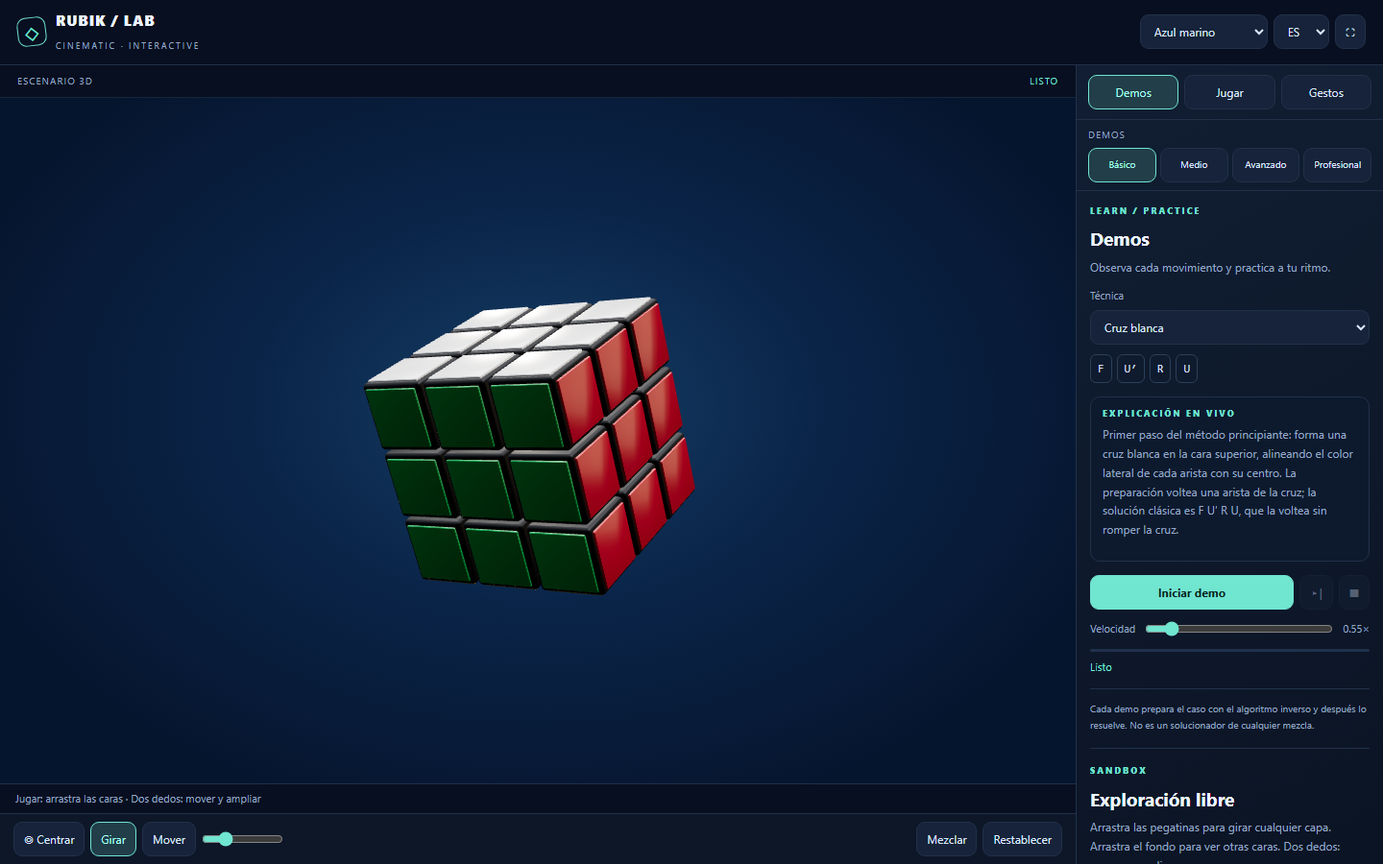
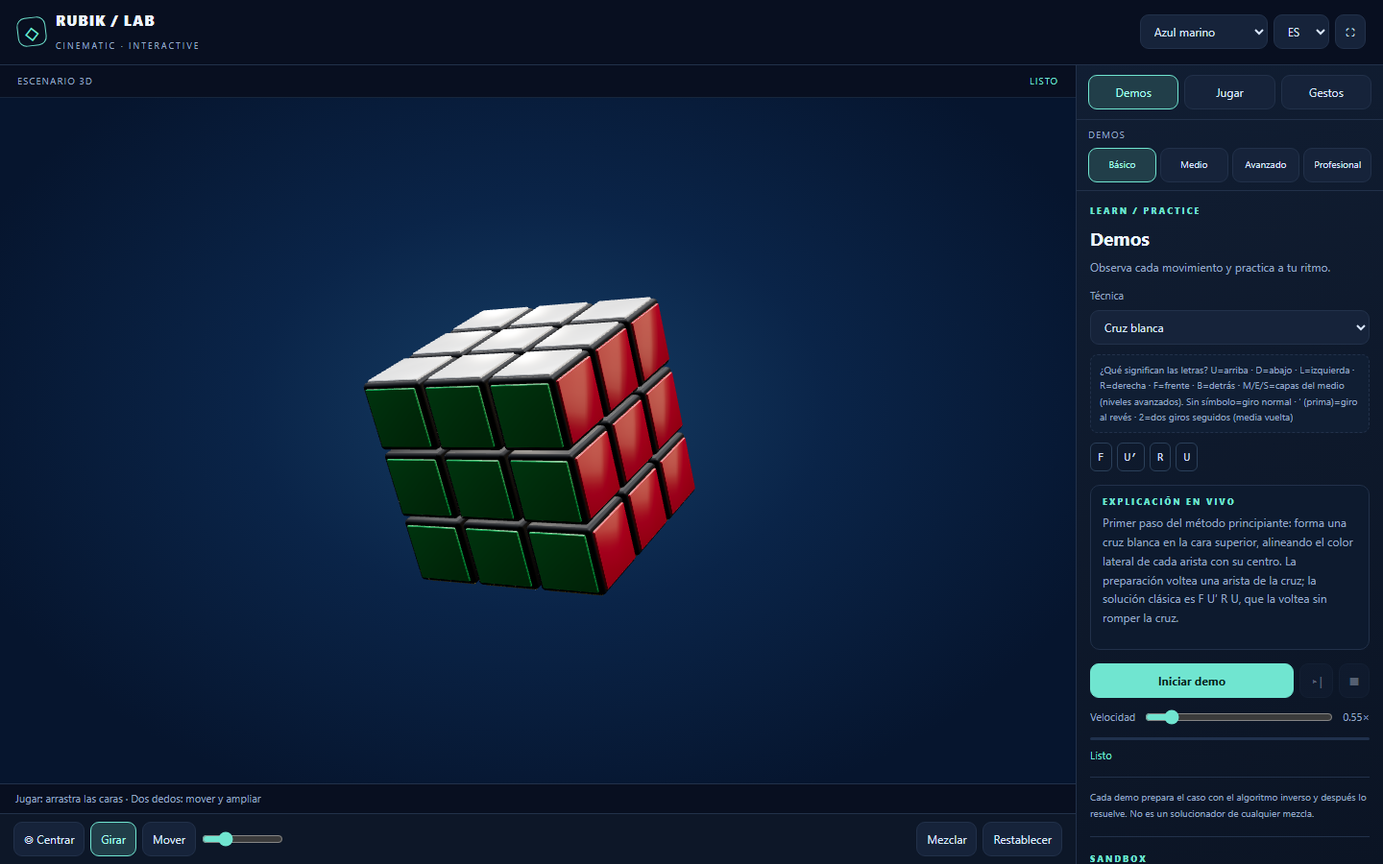
Explain cube notation before anything else, in plain language
README: add a beginner-proof glossary of face letters (U/D/L/R/F/B)
and symbols (', 2) right at the top, before any algorithm is shown,
with a fully worked example read out step by step. Also clarify
PLL/OLL and fix the "God's Number" wording.

App: add the same glossary as an always-visible legend above the
algorithm badges in the Demos panel (in all three languages), so
nobody encounters a bare letter without an explanation first.

Changed region(s): [[0.7812, 0.4044, 1.0, 1.0]]

diff --git a/Rubik-Cinematic-Lab.html b/Rubik-Cinematic-Lab.html
@@ -19,6 +19,7 @@
 .tw-cursor{display:inline-block;margin-left:1px;color:var(--accent);animation:tw-blink 1s steps(1) infinite}
 @keyframes tw-blink{0%,49%{opacity:1}50%,100%{opacity:0}}
 @media(max-width:760px){.explain-box{padding:8px 10px;margin:7px 0}.explain-text{font-size:11.5px;max-height:84px;overflow-y:auto}}
+.legend{margin:0 0 10px!important;padding:7px 9px;border:1px dashed var(--line);border-radius:8px;background:#101e33;color:#aebedc;font-size:10px!important;line-height:1.5}
 </style></head>
 <body>
   <div id="root"></div>
@@ -4015,9 +4016,9 @@ function SafeFrame({controller:c}){
  });return null;
 }
 function CP({controller:l,background:N}){return X1(ZP,{shadows:!0,dpr:[1,2],camera:{position:[0,0,11],fov:35},gl:{antialias:!0,alpha:!0},style:{touchAction:"none"},children:[U0(Tn,{}),N==="nebula"&&U0("fog",{attach:"fog",args:["#150a26",15,40]}),U0("ambientLight",{intensity:0.22}),U0("directionalLight",{position:[6,10,4],intensity:1.5,castShadow:!0,"shadow-mapSize-width":2048,"shadow-mapSize-height":2048,"shadow-camera-left":-7,"shadow-camera-right":7,"shadow-camera-top":7,"shadow-camera-bottom":-7,"shadow-camera-near":2,"shadow-camera-far":30,"shadow-bias":-0.00015,"shadow-normalBias":0.025}),U0("directionalLight",{position:[-7,3,-2],intensity:0.45,color:"#dfe8ff"}),U0("directionalLight",{position:[-1,4,-9],intensity:0.7,color:"#fff1dd"}),X1(yz,{resolution:256,frames:1,children:[U0("color",{attach:"background",args:["#0b0b10"]}),U0(fW,{intensity:2.2,position:[0,5,0],"rotation-x":Math.PI/2,scale:[9,9,1],color:"#ffffff"}),U0(fW,{intensity:0.9,position:[-5,1.5,-1],"rotation-y":Math.PI/2,scale:[7,2.5,1],color:"#cfe4ff"}),U0(fW,{intensity:0.9,position:[5,1,0.5],"rotation-y":-Math.PI/2,scale:[7,2.5,1],color:"#ffe7c4"}),U0(fW,{intensity:0.5,position:[0,2,-6],scale:[10,3,1],color:"#ffffff"})]}),(N==="stars"||N==="nebula")&&U0(_n,{tinted:N==="nebula"}),N==="nebula"&&U0(vn,{}),U0(hn,{controller:l}),U0(An,{controller:l}),U0(SafeFrame,{controller:l})]})}var q6=E8(b8(),1);var SP=[{id:"es",label:"ES"},{id:"en",label:"EN"},{id:"ru",label:"RU"}],nn={title:"Rubik 3D Lab Pro",tagline:"Photorealistic 3D cube laboratory",background:"Background",bgStudio:"Studio",bgStars:"Starfield",bgNebula:"Nebula",scramble:"Scramble",reset:"Reset",deckTitle:"PRO Control Deck",orbitStick:"Orbit Stick",orbitHint:"Drag the pad to rotate the view · release for inertia",resetView:"Reset view",layerSelect:"Layer Select",turnWheel:"Turn Wheel",wheelHint:"Drag in a circle to turn the layer 1:1 · release to snap",sensitivity:"Sensitivity",layerLabel:"Layer",wholeCube:"whole cube",demos:"Beginner Method",demosSub:"Step-by-step techniques with auto-played algorithms",techniques:"Techniques",close:"Close",play:"Play",pause:"Pause",step:"Step",stop:"Stop",speed:"Speed",algorithm:"Algorithm",statusReady:"Ready — pick a technique and press Play",statusPlaying:"Playing algorithm…",statusPaused:"Paused",dragFaceHint:"Drag a cube face to turn it",viewHint:"drag the background to orbit",moves:"moves"},jn={title:"Rubik 3D Lab Pro",tagline:"Laboratorio fotorrealista del cubo 3D",background:"Fondo",bgStudio:"Estudio",bgStars:"Estrellas",bgNebula:"Nebulosa",scramble:"Mezclar",reset:"Restablecer",deckTitle:"Consola de control PRO",orbitStick:"Palanca orbital",orbitHint:"Arrastra el pad para rotar la vista · suelta para inercia",resetView:"Centrar vista",layerSelect:"Selección de capa",turnWheel:"Rueda de giro",wheelHint:"Gira en círculo para rotar la capa 1:1 · suelta para ajustar",sensitivity:"Sensibilidad",layerLabel:"Capa",wholeCube:"cubo completo",demos:"Método principiante",demosSub:"Técnicas paso a paso con algoritmos automáticos",techniques:"Técnicas",close:"Cerrar",play:"Reproducir",pause:"Pausa",step:"Paso",stop:"Detener",speed:"Velocidad",algorithm:"Algoritmo",statusReady:"Listo — elige una técnica y pulsa Reproducir",statusPlaying:"Reproduciendo algoritmo…",statusPaused:"En pausa",dragFaceHint:"Arrastra una cara del cubo para girarla",viewHint:"arrastra el fondo para orbitar",moves:"movs."},xn={title:"Rubik 3D Lab Pro",tagline:"Фотореалистичная 3D-лаборатория кубика",background:"Фон",bgStudio:"Студия",bgStars:"Звёзды",bgNebula:"Туманность",scramble:"Перемешать",reset:"Сбросить",deckTitle:"ПРО-пульт управления",orbitStick:"Орбита-стик",orbitHint:"Тяните пад, чтобы вращать вид · отпустите для инерции",resetView:"Сбросить вид",layerSelect:"Выбор слоя",turnWheel:"Колесо поворота",wheelHint:"Вращайте по кругу для поворота слоя 1:1 · отпустите для доводки",sensitivity:"Чувствительность",layerLabel:"Слой",wholeCube:"весь куб",demos:"Метод новичка",demosSub:"Пошаговые техники с автопоказом алгоритмов",techniques:"Техники",close:"Закрыть",play:"Старт",pause:"Пауза",step:"Шаг",stop:"Стоп",speed:"Скорость",algorithm:"Алгоритм",statusReady:"Готов — выберите технику и нажмите «Старт»",statusPlaying:"Выполнение алгоритма…",statusPaused:"Пауза",dragFaceHint:"Потяните грань кубика, чтобы повернуть её",viewHint:"тяните фон для орбиты",moves:"ходов"},yW={en:nn,es:jn,ru:xn},gn=[{name:"White Cross",desc:"First step of the beginner method: build a white cross on the top face, matching each edge side color with its center. The setup flips one cross edge in place — the classic fix is F U′ R U, which flips the edge without breaking the cross."},{name:"White Corners",desc:"Seat the four white corners above their slots and twist each into place with R′ D′ R D, repeated until the white sticker faces up. The demo twists one corner out and restores it."},{name:"Second Layer",desc:"Insert the four middle-layer edges without disturbing the white face. The right-hand insert U R U′ R′ U′ F′ U F carries a top-layer edge into its slot."},{name:"Yellow Cross",desc:"Orient the four yellow edges to form a cross on the last layer. From the bar or L case, F R U R′ U′ F′ flips the remaining edges into place."},{name:"PLL · Permute Last Layer",desc:"Permute the last-layer pieces so every color matches its face. The T-permutation R U R′ U′ R′ F R2 U′ R′ U′ R U R′ F′ swaps two corners and two edges — a workhorse of full PLL."},{name:"OLL · Orient Last Layer",desc:"Orient every last-layer sticker so yellow faces up. Sune — R U R′ U R U2 R′ — is the most famous OLL: it cycles three corners while keeping the cross intact."}],pn=[{name:"Cruz blanca",desc:"Primer paso del método principiante: forma una cruz blanca en la cara superior, alineando el color lateral de cada arista con su centro. La preparación voltea una arista de la cruz; la solución clásica es F U′ R U, que la voltea sin romper la cruz."},{name:"Esquinas blancas",desc:"Coloca las cuatro esquinas blancas sobre sus huecos y gira cada una con R′ D′ R D, repitiendo hasta que la pegatina blanca mire hacia arriba. La demo gira una esquina y la restaura."},{name:"Segunda capa",desc:"Inserta las cuatro aristas de la capa media sin deshacer la cara blanca. La inserción a la derecha U R U′ R′ U′ F′ U F lleva una arista de la capa superior a su hueco."},{name:"Cruz amarilla",desc:"Orienta las cuatro aristas amarillas para formar una cruz en la última capa. Desde el caso de barra o L, F R U R′ U′ F′ coloca las aristas restantes."},{name:"PLL · Permutar última capa",desc:"Permuta las piezas de la última capa para que cada color coincida con su cara. La permutación T R U R′ U′ R′ F R2 U′ R′ U′ R U R′ F′ intercambia dos esquinas y dos aristas."},{name:"OLL · Orientar última capa",desc:"Orienta todas las pegatinas de la última capa para que el amarillo mire hacia arriba. Sune — R U R′ U R U2 R′ — es el OLL más famoso: rota tres esquinas manteniendo la cruz."}],mn=[{name:"Белый крест",desc:"Первый шаг метода новичка: соберите белый крест на верхней грани, совместив боковой цвет каждого ребра с его центром. Подготовка переворачивает одно ребро креста на месте — классическое исправление F U′ R U переворачивает ребро, не разрушая крест."},{name:"Белые углы",desc:"Поставьте четыре белых угла над их гнёздами и доверните каждый движением R′ D′ R D, повторяя, пока белый стикер не окажется сверху. Демо выкручивает один угол и возвращает его на место."},{name:"Второй слой",desc:"Вставьте четыре ребра среднего слоя, не разрушая белую грань. Правая вставка U R U′ R′ U′ F′ U F переносит ребро из верхнего слоя в его гнездо."},{name:"Жёлтый крест",desc:"Ориентируйте четыре жёлтых ребра, чтобы получить крест на последнем слое. Из случаев «палка» или «уголок» алгоритм F R U R′ U′ F′ ставит оставшиеся рёбра на место."},{name:"PLL · Перестановка последнего слоя",desc:"Переставьте элементы последнего слоя так, чтобы цвета совпали с гранями. T-перестановка R U R′ U′ R′ F R2 U′ R′ U′ R U R′ F′ меняет местами два угла и два ребра."},{name:"OLL · Ориентация последнего слоя",desc:"Ориентируйте все стикеры последнего слоя жёлтым вверх. Сьюн — R U R′ U R U2 R′ — самый известный OLL: он циклит три угла, сохраняя крест."}],PP={en:gn,es:pn,ru:mn};var bn=[["U","D","L"],["R","F","B"],["M","E","S"],["X","Y","Z"]];function hz({icon:l,title:N,children:Q}){return X1("div",{className:"flex flex-col items-center gap-3 rounded-2xl border border-white/10 bg-white/[0.04] px-4 py-4",children:[X1("div",{className:"flex items-center gap-2 text-[12px] font-bold uppercase tracking-[0.16em] text-white/70",children:[U0("span",{className:"text-amber-300",children:l}),U0("span",{children:N})]}),Q]})}function dn({controller:l,t:N}){let Q=q6.useRef(null),W=q6.useRef(null),[J,H]=q6.useState({x:0,y:0}),U=(K,Y)=>{let E=Q.current;if(!E)return;let X=E.getBoundingClientRect(),$=X.width/2-26,G=K-(X.left+X.width/2),u=Y-(X.top+X.height/2),z=Math.hypot(G,u);if(z>$&&z>0)G=G/z*$,u=u/z*$;H({x:G,y:u}),l.setStick(G/$,u/$)};return X1("div",{className:"flex flex-col items-center gap-2",children:[X1("div",{ref:Q,onPointerDown:(K)=>{if(W.current!==null)return;W.current=K.pointerId,K.currentTarget.setPointerCapture(K.pointerId),U(K.clientX,K.clientY)},onPointerMove:(K)=>{if(W.current!==K.pointerId)return;U(K.clientX,K.clientY)},onPointerUp:(K)=>{if(W.current!==K.pointerId)return;W.current=null,H({x:0,y:0}),l.releaseStick()},onPointerCancel:(K)=>{if(W.current!==K.pointerId)return;W.current=null,H({x:0,y:0}),l.releaseStick()},className:"relative h-40 w-40 cursor-grab touch-none select-none rounded-full border border-white/15 bg-white/[0.04] shadow-[inset_0_2px_18px_rgba(0,0,0,0.45)] active:cursor-grabbing",children:[U0("div",{className:"absolute bottom-2 left-1/2 top-2 w-px bg-white/10"}),U0("div",{className:"absolute left-2 right-2 top-1/2 h-px bg-white/10"}),U0("div",{className:"absolute inset-3 rounded-full border border-white/10"}),U0("div",{className:"absolute left-1/2 top-1/2 h-12 w-12 rounded-full border border-amber-100/60 bg-gradient-to-br from-amber-200 to-amber-500 shadow-[0_4px_18px_rgba(251,191,36,0.45)]",style:{transform:`translate(calc(-50% + ${J.x}px), calc(-50% + ${J.y}px))`}}),U0("button",{"aria-label":N.resetView,title:N.resetView,onPointerDown:(K)=>K.stopPropagation(),onClick:()=>l.resetView(),className:"absolute left-1/2 top-1/2 z-10 flex h-9 w-9 -translate-x-1/2 -translate-y-1/2 items-center justify-center rounded-full border border-white/25 bg-black/55 text-white/85 backdrop-blur transition hover:bg-black/80 hover:text-amber-200",children:U0(eJ,{size:15})})]}),U0("p",{className:"max-w-[220px] text-center text-[11px] leading-snug text-white/45",children:N.orbitHint})]})}function cn({t:l,layer:N,setLayer:Q}){let W=N==="X"||N==="Y"||N==="Z";return X1("div",{className:"flex flex-col items-center gap-2",children:[U0("div",{className:"grid grid-cols-3 gap-1.5",children:bn.flat().map((J)=>{return U0("button",{onClick:()=>Q(J),className:`h-10 w-10 rounded-xl border text-sm font-bold transition active:scale-95 ${J===N?"border-amber-300/70 bg-amber-300/20 text-amber-100 shadow-[0_0_14px_rgba(251,191,36,0.25)]":"border-white/10 bg-white/[0.05] text-white/70 hover:bg-white/[0.12] hover:text-white"}`,children:J},J)})}),U0("p",{className:"text-[11px] text-white/45",children:W?`${N} · ${l.wholeCube}`:`${l.layerLabel} · ${N}`})]})}function on({controller:l,t:N,layer:Q}){let W=q6.useRef(null),J=q6.useRef(null),H=q6.useRef(0),U=q6.useRef(0),[K,Y]=q6.useState(0);q6.useEffect(()=>()=>cancelAnimationFrame(U.current),[]);let E=()=>{if(Y(l.wheel.accum),l.wheel.active)U.current=requestAnimationFrame(E)},X=(G,u)=>{let z=W.current?.getBoundingClientRect();if(!z)return 0;return Math.atan2(u-(z.top+z.height/2),G-(z.left+z.width/2))},$=Array.from({length:24},(G,u)=>{let z=u*15*Math.PI/180,w=u%6===0,D=w?62:68,q=76;return{i:u,x1:84+D*Math.cos(z),y1:84+D*Math.sin(z),x2:84+76*Math.cos(z),y2:84+76*Math.sin(z),major:w}});return X1("div",{className:"flex flex-col items-center gap-2",children:[X1("div",{ref:W,onPointerDown:(G)=>{if(J.current!==null||!l.wheelBegin(Q))return;J.current=G.pointerId,G.currentTarget.setPointerCapture(G.pointerId),H.current=X(G.clientX,G.clientY),Y(0),cancelAnimationFrame(U.current),U.current=requestAnimationFrame(E)},onPointerMove:(G)=>{if(J.current!==G.pointerId)return;let u=X(G.clientX,G.clientY),z=u-H.current;if(z>Math.PI)z-=Math.PI*2;else if(z<-Math.PI)z+=Math.PI*2;H.current=u,l.wheelDelta(z)},onPointerUp:(G)=>{if(J.current!==G.pointerId)return;J.current=null,l.wheelEnd()},onPointerCancel:(G)=>{if(J.current!==G.pointerId)return;J.current=null,l.wheelEnd()},className:"relative h-[168px] w-[168px] cursor-grab touch-none select-none rounded-full border border-white/15 bg-white/[0.04] shadow-[inset_0_2px_18px_rgba(0,0,0,0.45)] active:cursor-grabbing",children:[X1("svg",{viewBox:"0 0 168 168",className:"absolute inset-0 h-full w-full",children:[$.map((G)=>U0("line",{x1:G.x1,y1:G.y1,x2:G.x2,y2:G.y2,stroke:G.major?"rgba(255,255,255,0.55)":"rgba(255,255,255,0.22)",strokeWidth:G.major?2:1},G.i)),X1("g",{transform:`rotate(${K*180/Math.PI} 84 84)`,children:[U0("line",{x1:84,y1:84,x2:84,y2:34,stroke:"#fbbf24",strokeWidth:5,strokeLinecap:"round"}),U0("circle",{cx:84,cy:30,r:7,fill:"#fbbf24"})]})]}),U0("div",{className:"absolute left-1/2 top-1/2 flex h-14 w-14 -translate-x-1/2 -translate-y-1/2 items-center justify-center rounded-full border border-amber-300/40 bg-black/60 text-lg font-black text-amber-200 backdrop-blur",children:Q})]}),U0("div",{className:"flex items-center gap-1.5",children:[{label:"-90°",deg:-90},{label:"+90°",deg:90},{label:"180°",deg:180}].map((G)=>U0("button",{onClick:()=>l.turnLayer(Q,G.deg),className:"rounded-lg border border-white/10 bg-white/[0.06] px-3 py-1.5 text-xs font-bold text-white/80 transition hover:bg-white/[0.14] hover:text-white active:scale-95",children:G.label},G.label))}),U0("p",{className:"max-w-[220px] text-center text-[11px] leading-snug text-white/45",children:N.wheelHint})]})}function VP({controller:l,lang:N}){let Q=yW[N],[,W]=q6.useReducer((E)=>E+1,0),[J,H]=q6.useState("U"),[U,K]=q6.useState(1);q6.useEffect(()=>l.subscribe(W),[l]);let Y=l.isBusy();return U0("section",{className:"border-t border-white/10 bg-[#0b0e14]/90 px-3 py-3 backdrop-blur-xl sm:px-5",children:X1("div",{className:"mx-auto flex max-w-6xl flex-col gap-3",children:[X1("div",{className:"flex items-center justify-between",children:[X1("div",{className:"flex items-center gap-2",children:[U0(JH,{size:16,className:"text-amber-300"}),U0("h2",{className:"text-sm font-bold uppercase tracking-[0.18em] text-white/85",children:Q.deckTitle})]}),U0("span",{className:`h-2.5 w-2.5 rounded-full transition-colors ${Y?"animate-pulse bg-amber-300":"bg-emerald-400"}`,title:Y?"busy":"ready"})]}),X1("div",{className:"grid gap-3 md:grid-cols-3",children:[U0(hz,{icon:U0(HH,{size:14}),title:Q.orbitStick,children:U0(dn,{controller:l,t:Q})}),U0(hz,{icon:U0(_N,{size:14}),title:Q.layerSelect,children:U0(cn,{t:Q,layer:J,setLayer:H})}),U0(hz,{icon:U0(NH,{size:14}),title:Q.turnWheel,children:U0(on,{controller:l,t:Q,layer:J})})]}),X1("div",{className:"flex items-center gap-3 rounded-2xl border border-white/10 bg-white/[0.04] px-4 py-2.5",children:[U0(QH,{size:15,className:"shrink-0 text-amber-300"}),U0("span",{className:"shrink-0 text-xs font-semibold uppercase tracking-[0.14em] text-white/60",children:Q.sensitivity}),U0("input",{type:"range",min:0.3,max:2,step:0.1,value:U,onChange:(E)=>{let X=parseFloat(E.target.value);K(X),l.sensitivity=X},className:"h-1.5 flex-1 cursor-pointer appearance-none rounded-full bg-white/15 accent-amber-300","aria-label":Q.sensitivity}),X1("span",{className:"w-10 shrink-0 text-right text-xs font-bold text-amber-200",children:[U.toFixed(1),"×"]})]})]})})}var m5=E8(b8(),1);function nz({controller:l,lang:N}){let Q=yW[N],W=PP[N],[,J]=m5.useReducer((q)=>q+1,0),[H,U]=m5.useState(hU[0].id),[K,Y]=m5.useState(1);m5.useEffect(()=>l.subscribe(J),[l]);let E=Math.max(0,hU.findIndex((q)=>q.id===H)),X=hU[E],$=X.alg.split(" ").filter(Boolean),G=l.demo,u=G.active&&G.stepId===H,z=u&&!l.paused,w=()=>{if(!u)l.startDemo(X.id,X.alg);else if(l.paused)l.resumeDemo();else l.pauseDemo()},D=G.total>0?G.done/G.total*100:0;return X1("div",{className:"flex h-full flex-col gap-3",children:[X1("div",{children:[U0("h2",{className:"text-sm font-bold uppercase tracking-[0.18em] text-white/85",children:Q.demos}),U0("p",{className:"mt-1 text-[11px] leading-snug text-white/45",children:Q.demosSub})]}),U0("div",{className:"flex flex-col gap-1",children:hU.map((q,R)=>{let L=q.id===H;return X1("button",{onClick:()=>U(q.id),className:`flex items-center gap-2.5 rounded-xl border px-2.5 py-2 text-left transition active:scale-[0.99] ${L?"border-amber-300/50 bg-amber-300/10":"border-white/10 bg-white/[0.03] hover:bg-white/[0.08]"}`,children:[U0("span",{className:`flex h-6 w-6 shrink-0 items-center justify-center rounded-lg text-[11px] font-black ${L?"bg-amber-300 text-black":"bg-white/10 text-white/60"}`,children:R+1}),U0("span",{className:`text-xs font-semibold ${L?"text-amber-100":"text-white/75"}`,children:W[R].name})]},q.id)})}),X1("div",{className:"flex flex-col gap-3 rounded-2xl border border-white/10 bg-white/[0.04] p-3.5",children:[U0("p",{className:"text-xs leading-relaxed text-white/60",children:W[E].desc}),X1("div",{children:[X1("div",{className:"mb-1.5 text-[10px] font-bold uppercase tracking-[0.16em] text-white/40",children:[Q.algorithm," · ",$.length," ",Q.moves]}),U0("div",{className:"flex flex-wrap gap-1",children:$.map((q,R)=>U0("span",{className:"rounded-md border border-white/10 bg-black/40 px-1.5 py-0.5 font-mono text-[11px] font-bold text-amber-100/90",children:q.replace("'","′")},R))})]}),X1("div",{className:"flex items-center gap-1.5",children:[X1("button",{onClick:w,className:"flex flex-1 items-center justify-center gap-2 rounded-xl bg-amber-300 px-3 py-2 text-xs font-black uppercase tracking-wider text-black transition hover:bg-amber-200 active:scale-95",children:[z?U0(UH,{size:14}):U0(ZH,{size:14}),z?Q.pause:Q.play]}),U0("button",{onClick:()=>l.stepOnce(),disabled:!u,title:Q.step,className:"flex h-9 w-9 items-center justify-center rounded-xl border border-white/10 bg-white/[0.06] text-white/80 transition hover:bg-white/[0.14] disabled:opacity-35",children:U0(YH,{size:15})}),U0("button",{onClick:()=>l.stopDemo(),disabled:!G.active,title:Q.stop,className:"flex h-9 w-9 items-center justify-center rounded-xl border border-white/10 bg-white/[0.06] text-white/80 transition hover:bg-white/[0.14] disabled:opacity-35",children:U0(KH,{size:14})})]}),X1("div",{className:"flex items-center gap-2.5",children:[U0("span",{className:"shrink-0 text-[10px] font-bold uppercase tracking-[0.14em] text-white/40",children:Q.speed}),U0("input",{type:"range",min:0.5,max:3,step:0.25,value:K,onChange:(q)=>{let R=parseFloat(q.target.value);Y(R),l.speed=R},className:"h-1.5 flex-1 cursor-pointer appearance-none rounded-full bg-white/15 accent-amber-300","aria-label":Q.speed}),X1("span",{className:"w-9 shrink-0 text-right text-xs font-bold text-amber-200",children:[K.toFixed(2).replace(/0$/,""),"×"]})]}),X1("div",{children:[U0("div",{className:"h-1.5 overflow-hidden rounded-full bg-white/10",children:U0("div",{className:"h-full rounded-full bg-gradient-to-r from-amber-400 to-amber-200 transition-[width]",style:{width:`${u?D:0}%`}})}),X1("div",{className:"mt-1.5 flex items-center justify-between text-[11px] text-white/45",children:[U0("span",{children:u?l.paused?Q.statusPaused:Q.statusPlaying:Q.statusReady}),u&&G.total>0&&X1("span",{className:"font-mono",children:[G.done,"/",G.total]})]})]})]})]})}var sn=[{face:"U",suffix:""},{face:"U",suffix:"'"},{face:"D",suffix:""},{face:"D",suffix:"'"},{face:"L",suffix:""},{face:"L",suffix:"'"},{face:"R",suffix:""},{face:"R",suffix:"'"},{face:"F",suffix:""},{face:"F",suffix:"'"},{face:"B",suffix:""},{face:"B",suffix:"'"},{face:"M",suffix:""},{face:"E",suffix:""},{face:"S",suffix:""}],rn=[{id:"studio",icon:EH},{id:"stars",icon:vN},{id:"nebula",icon:vN}];function tn(l,N){return`${l}${N==="'"?"′":N}`}const UI={
-es:{direct:'Arrastra las pegatinas para girar cualquier capa. Arrastra el fondo para ver otras caras. Dos dedos: mover y ampliar.',demo:'Demos',controls:'Jugar',help:'Gestos',levels:['Básico','Medio','Avanzado','Profesional'],complexity:['Fundamentos','Capas y orientación','Permutaciones','Secuencias técnicas'],backgrounds:['Azul marino','Estudio nocturno','Órbita estelar','Nebulosa','Abismo turquesa','Luz ámbar'],scene:'ESCENARIO 3D',ready:'Listo',running:'En reproducción',paused:'En pausa',complete:'Demo completada',technique:'Técnica',play:'Iniciar demo',resume:'Continuar',pause:'Pausar',stop:'Detener',step:'Un paso',center:'Centrar',reset:'Restablecer',mix:'Mezclar',size:'Tamaño',speed:'Velocidad',rotate:'Girar',move:'Mover',hint:'Jugar: arrastra las caras · Dos dedos: mover y ampliar',note:'Cada demo prepara el caso con el algoritmo inverso y después lo resuelve. No es un solucionador de cualquier mezcla.',intro:'Observa cada movimiento y practica a tu ritmo.',free:'Exploración libre',faces:'Gira una capa',undo:'Deshacer',notation:'Sin marca: 90° · ′: inverso · 2: 180°',gestureTitle:'El cubo, en tus manos',gestures:['Un dedo / ratón: gira la vista o desplaza el cubo según el modo elegido.','Dos dedos: desplaza y pellizca para cambiar el tamaño. Ratón: rueda para ampliar; Mayús + arrastrar para mover.','Centrar recupera posición, tamaño y orientación iniciales.','En Jugar, arrastra directamente las caras para girar las capas. Las demos tienen pausa, paso y detener.'],safe:'Los límites mantienen el cubo completo dentro del escenario.',fullscreen:'Pantalla completa',exit:'Salir',choose:'Idioma',explainTitle:'Explicación en vivo',explainReady:'Elige una técnica para ver por qué funciona; al reproducirla, cada giro se explica paso a paso.',explainDone:'¡Completado! Repite el algoritmo varias veces para memorizar el patrón de dedos y ganar velocidad.'},
-en:{direct:'Drag stickers to turn any layer. Drag the background to view other faces. Two fingers: move and zoom.',demo:'Demos',controls:'Play',help:'Gestures',levels:['Beginner','Intermediate','Advanced','Professional'],complexity:['Foundations','Layers & orientation','Permutations','Technical sequences'],backgrounds:['Navy blue','Night studio','Stellar orbit','Nebula','Teal abyss','Amber light'],scene:'3D STAGE',ready:'Ready',running:'Playing',paused:'Paused',complete:'Demo completed',technique:'Technique',play:'Start demo',resume:'Resume',pause:'Pause',stop:'Stop',step:'One step',center:'Center',reset:'Reset',mix:'Scramble',size:'Size',speed:'Speed',rotate:'Rotate',move:'Move',hint:'Play: drag cube faces · Two fingers: move and zoom',note:'Each demo sets up its case using the inverse algorithm, then solves it. It is not a solver for arbitrary scrambles.',intro:'Observe every move and practice at your own pace.',free:'Free exploration',faces:'Turn a layer',undo:'Undo',notation:'No suffix: 90° · ′: inverse · 2: 180°',gestureTitle:'The cube, in your hands',gestures:['One finger / mouse: rotate the view or move the cube in the selected mode.','Two fingers: move and pinch to resize. Mouse: wheel to zoom; Shift + drag to move.','Center restores the initial position, size and orientation.','In Play, drag cube faces directly to turn layers. Demos support pause, single step and stop.'],safe:'Bounds keep the entire cube inside the stage.',fullscreen:'Fullscreen',exit:'Exit',choose:'Language',explainTitle:'Live explanation',explainReady:'Pick a technique to see why it works; once you play it, every turn gets explained step by step.',explainDone:'Completed! Repeat the algorithm a few times to memorize the finger pattern and build speed.'},
-ru:{direct:'Тяните наклейки, чтобы повернуть любой слой. Тяните фон, чтобы увидеть другие грани. Два пальца: двигать и масштабировать.',demo:'Демо',controls:'Играть',help:'Жесты',levels:['Новичок','Средний','Продвинутый','Профессионал'],complexity:['Основы','Слои и ориентация','Перестановки','Технические серии'],backgrounds:['Тёмно-синий','Ночная студия','Звёздная орбита','Туманность','Бирюзовая бездна','Янтарный свет'],scene:'3D СЦЕНА',ready:'Готово',running:'Воспроизведение',paused:'Пауза',complete:'Демо завершено',technique:'Техника',play:'Запустить демо',resume:'Продолжить',pause:'Пауза',stop:'Стоп',step:'Один ход',center:'По центру',reset:'Сброс',mix:'Перемешать',size:'Размер',speed:'Скорость',rotate:'Вращать',move:'Двигать',hint:'Играть: тяните грани · Два пальца: двигать и масштабировать',note:'Каждое демо создаёт пример обратным алгоритмом, затем решает его. Это не решатель произвольных комбинаций.',intro:'Изучайте каждый ход в своём темпе.',free:'Свободная игра',faces:'Повернуть слой',undo:'Отменить',notation:'Без знака: 90° · ′: обратный · 2: 180°',gestureTitle:'Кубик в ваших руках',gestures:['Один палец / мышь: вращение вида или перемещение кубика в выбранном режиме.','Два пальца: перемещение и масштабирование. Мышь: колесо — размер; Shift + перетаскивание — перемещение.','По центру восстанавливает положение, размер и ориентацию.','В режиме Играть тяните грани кубика для поворота слоёв. Демо: пауза, один ход и стоп.'],safe:'Границы удерживают весь кубик внутри сцены.',fullscreen:'Полный экран',exit:'Выход',choose:'Язык',explainTitle:'Объяснение в реальном времени',explainReady:'Выберите технику, чтобы понять, почему она работает; во время воспроизведения каждый ход объясняется по шагам.',explainDone:'Готово! Повторите алгоритм несколько раз, чтобы запомнить движение пальцев и набрать скорость.'}
+es:{direct:'Arrastra las pegatinas para girar cualquier capa. Arrastra el fondo para ver otras caras. Dos dedos: mover y ampliar.',demo:'Demos',controls:'Jugar',help:'Gestos',levels:['Básico','Medio','Avanzado','Profesional'],complexity:['Fundamentos','Capas y orientación','Permutaciones','Secuencias técnicas'],backgrounds:['Azul marino','Estudio nocturno','Órbita estelar','Nebulosa','Abismo turquesa','Luz ámbar'],scene:'ESCENARIO 3D',ready:'Listo',running:'En reproducción',paused:'En pausa',complete:'Demo completada',technique:'Técnica',play:'Iniciar demo',resume:'Continuar',pause:'Pausar',stop:'Detener',step:'Un paso',center:'Centrar',reset:'Restablecer',mix:'Mezclar',size:'Tamaño',speed:'Velocidad',rotate:'Girar',move:'Mover',hint:'Jugar: arrastra las caras · Dos dedos: mover y ampliar',note:'Cada demo prepara el caso con el algoritmo inverso y después lo resuelve. No es un solucionador de cualquier mezcla.',intro:'Observa cada movimiento y practica a tu ritmo.',free:'Exploración libre',faces:'Gira una capa',undo:'Deshacer',notation:'Sin marca: 90° · ′: inverso · 2: 180°',gestureTitle:'El cubo, en tus manos',gestures:['Un dedo / ratón: gira la vista o desplaza el cubo según el modo elegido.','Dos dedos: desplaza y pellizca para cambiar el tamaño. Ratón: rueda para ampliar; Mayús + arrastrar para mover.','Centrar recupera posición, tamaño y orientación iniciales.','En Jugar, arrastra directamente las caras para girar las capas. Las demos tienen pausa, paso y detener.'],safe:'Los límites mantienen el cubo completo dentro del escenario.',fullscreen:'Pantalla completa',exit:'Salir',choose:'Idioma',explainTitle:'Explicación en vivo',explainReady:'Elige una técnica para ver por qué funciona; al reproducirla, cada giro se explica paso a paso.',explainDone:'¡Completado! Repite el algoritmo varias veces para memorizar el patrón de dedos y ganar velocidad.',legend:'¿Qué significan las letras? U=arriba · D=abajo · L=izquierda · R=derecha · F=frente · B=detrás · M/E/S=capas del medio (niveles avanzados). Sin símbolo=giro normal · ′ (prima)=giro al revés · 2=dos giros seguidos (media vuelta)'},
+en:{direct:'Drag stickers to turn any layer. Drag the background to view other faces. Two fingers: move and zoom.',demo:'Demos',controls:'Play',help:'Gestures',levels:['Beginner','Intermediate','Advanced','Professional'],complexity:['Foundations','Layers & orientation','Permutations','Technical sequences'],backgrounds:['Navy blue','Night studio','Stellar orbit','Nebula','Teal abyss','Amber light'],scene:'3D STAGE',ready:'Ready',running:'Playing',paused:'Paused',complete:'Demo completed',technique:'Technique',play:'Start demo',resume:'Resume',pause:'Pause',stop:'Stop',step:'One step',center:'Center',reset:'Reset',mix:'Scramble',size:'Size',speed:'Speed',rotate:'Rotate',move:'Move',hint:'Play: drag cube faces · Two fingers: move and zoom',note:'Each demo sets up its case using the inverse algorithm, then solves it. It is not a solver for arbitrary scrambles.',intro:'Observe every move and practice at your own pace.',free:'Free exploration',faces:'Turn a layer',undo:'Undo',notation:'No suffix: 90° · ′: inverse · 2: 180°',gestureTitle:'The cube, in your hands',gestures:['One finger / mouse: rotate the view or move the cube in the selected mode.','Two fingers: move and pinch to resize. Mouse: wheel to zoom; Shift + drag to move.','Center restores the initial position, size and orientation.','In Play, drag cube faces directly to turn layers. Demos support pause, single step and stop.'],safe:'Bounds keep the entire cube inside the stage.',fullscreen:'Fullscreen',exit:'Exit',choose:'Language',explainTitle:'Live explanation',explainReady:'Pick a technique to see why it works; once you play it, every turn gets explained step by step.',explainDone:'Completed! Repeat the algorithm a few times to memorize the finger pattern and build speed.',legend:'What do the letters mean? U=top · D=bottom · L=left · R=right · F=front · B=back · M/E/S=middle slices (advanced levels). No symbol=normal turn · ′ (prime)=turn the other way · 2=two turns in a row (half turn)'},
+ru:{direct:'Тяните наклейки, чтобы повернуть любой слой. Тяните фон, чтобы увидеть другие грани. Два пальца: двигать и масштабировать.',demo:'Демо',controls:'Играть',help:'Жесты',levels:['Новичок','Средний','Продвинутый','Профессионал'],complexity:['Основы','Слои и ориентация','Перестановки','Технические серии'],backgrounds:['Тёмно-синий','Ночная студия','Звёздная орбита','Туманность','Бирюзовая бездна','Янтарный свет'],scene:'3D СЦЕНА',ready:'Готово',running:'Воспроизведение',paused:'Пауза',complete:'Демо завершено',technique:'Техника',play:'Запустить демо',resume:'Продолжить',pause:'Пауза',stop:'Стоп',step:'Один ход',center:'По центру',reset:'Сброс',mix:'Перемешать',size:'Размер',speed:'Скорость',rotate:'Вращать',move:'Двигать',hint:'Играть: тяните грани · Два пальца: двигать и масштабировать',note:'Каждое демо создаёт пример обратным алгоритмом, затем решает его. Это не решатель произвольных комбинаций.',intro:'Изучайте каждый ход в своём темпе.',free:'Свободная игра',faces:'Повернуть слой',undo:'Отменить',notation:'Без знака: 90° · ′: обратный · 2: 180°',gestureTitle:'Кубик в ваших руках',gestures:['Один палец / мышь: вращение вида или перемещение кубика в выбранном режиме.','Два пальца: перемещение и масштабирование. Мышь: колесо — размер; Shift + перетаскивание — перемещение.','По центру восстанавливает положение, размер и ориентацию.','В режиме Играть тяните грани кубика для поворота слоёв. Демо: пауза, один ход и стоп.'],safe:'Границы удерживают весь кубик внутри сцены.',fullscreen:'Полный экран',exit:'Выход',choose:'Язык',explainTitle:'Объяснение в реальном времени',explainReady:'Выберите технику, чтобы понять, почему она работает; во время воспроизведения каждый ход объясняется по шагам.',explainDone:'Готово! Повторите алгоритм несколько раз, чтобы запомнить движение пальцев и набрать скорость.',legend:'Что означают буквы? U=верх · D=низ · L=лево · R=право · F=перед · B=зад · M/E/S=средние слои (для продвинутых уровней). Без знака=обычный поворот · ′ (штрих)=поворот в обратную сторону · 2=два поворота подряд (пол-оборота)'}
 };
 const CINEMA=['navy','studio','stars','nebula','teal','amber'];
 const LESSONS=[
@@ -4159,7 +4160,7 @@ function jz(){
  };
  const selectLevel=n=>{c.stopDemo();setLevel(n);setLesson(0);const s=[.55,.8,1.15,1.6][n];c.speed=s;setSpeed(s)};
  const turn=suffix=>{if(c.isBusy()||c.demo.active)return;const m=yU(face,suffix);history.current.push(m);c.enqueueMoves([m])};
- const demoPanel=e('div',{},e('div',{className:'eyebrow'},'LEARN / PRACTICE'),e('h2',{},t.demo),e('p',{className:'demo-intro'},t.intro),e('label',{className:'field'},t.technique,e('select',{value:lesson,onChange:ev=>{c.stopDemo();setLesson(+ev.target.value)}},LESSONS[level].map((v,i)=>e('option',{key:v.id,value:i},v.name[li])))),e('div',{className:'algorithm','aria-label':t.technique},item.alg.split(' ').map((m,i)=>e('span',{key:i,className:'move '+(active&&i<demo.done?'done':active&&i===demo.done?'now':'')},m.replace("'",'′')))),e('div',{className:'explain-box'},e('div',{className:'explain-head'},t.explainTitle),e(TypeText,{key:item.id+'|'+lang+'|'+explainText,text:explainText})),e('div',{className:'playback'},button(active&&!finished?c.paused?t.resume:t.pause:t.play,run,{className:'primary'}),button('▸|',()=>c.stepOnce(),{disabled:!active||finished,title:t.step,'aria-label':t.step}),button('■',()=>c.stopDemo(),{disabled:!demo.active,title:t.stop,'aria-label':t.stop})),e('label',{className:'speed'},t.speed,e('input',{type:'range',min:.25,max:3,step:.05,value:speed,'aria-label':t.speed,onChange:ev=>{c.speed=+ev.target.value;setSpeed(c.speed)}}),e('span',{},speed.toFixed(2)+'×')),e('div',{className:'progress'},e('div',{style:{width:(active?demo.done/demo.total*100:0)+'%'}})),e('div',{className:'status',role:'status'},active?(finished?t.complete:c.paused?t.paused:t.running)+' · '+demo.done+'/'+demo.total:t.ready),e('p',{className:'note'},t.note));
+ const demoPanel=e('div',{},e('div',{className:'eyebrow'},'LEARN / PRACTICE'),e('h2',{},t.demo),e('p',{className:'demo-intro'},t.intro),e('label',{className:'field'},t.technique,e('select',{value:lesson,onChange:ev=>{c.stopDemo();setLesson(+ev.target.value)}},LESSONS[level].map((v,i)=>e('option',{key:v.id,value:i},v.name[li])))),e('p',{className:'note legend'},t.legend),e('div',{className:'algorithm','aria-label':t.technique},item.alg.split(' ').map((m,i)=>e('span',{key:i,className:'move '+(active&&i<demo.done?'done':active&&i===demo.done?'now':'')},m.replace("'",'′')))),e('div',{className:'explain-box'},e('div',{className:'explain-head'},t.explainTitle),e(TypeText,{key:item.id+'|'+lang+'|'+explainText,text:explainText})),e('div',{className:'playback'},button(active&&!finished?c.paused?t.resume:t.pause:t.play,run,{className:'primary'}),button('▸|',()=>c.stepOnce(),{disabled:!active||finished,title:t.step,'aria-label':t.step}),button('■',()=>c.stopDemo(),{disabled:!demo.active,title:t.stop,'aria-label':t.stop})),e('label',{className:'speed'},t.speed,e('input',{type:'range',min:.25,max:3,step:.05,value:speed,'aria-label':t.speed,onChange:ev=>{c.speed=+ev.target.value;setSpeed(c.speed)}}),e('span',{},speed.toFixed(2)+'×')),e('div',{className:'progress'},e('div',{style:{width:(active?demo.done/demo.total*100:0)+'%'}})),e('div',{className:'status',role:'status'},active?(finished?t.complete:c.paused?t.paused:t.running)+' · '+demo.done+'/'+demo.total:t.ready),e('p',{className:'note'},t.note));
  const controlsPanel=e('div',{},e('div',{className:'eyebrow'},'SANDBOX'),e('h2',{},t.free),e('p',{},t.direct),e('p',{},t.notation),e('div',{className:'face-grid'},['U','D','L','R','F','B','M','E','S','X','Y','Z'].map(f=>button(f,()=>{if(c.demo.active)c.stopDemo();setFace(f)},{key:f,className:face===f?'active':''}))),e('div',{className:'manual-row'},button(face,()=>turn(''),{disabled:c.isBusy()||c.demo.active}),button(face+'′',()=>turn("'"),{disabled:c.isBusy()||c.demo.active}),button(face+'2',()=>turn('2'),{disabled:c.isBusy()||c.demo.active})),button(t.undo,()=>{if(c.isBusy())return;const m=history.current.pop();if(m)c.enqueueMoves([{...m,angle:-m.angle}])},{disabled:!history.current.length||c.isBusy()||c.demo.active}),e('div',{className:'quick-turns','aria-label':t.faces},sn.map((v,i)=>button(tn(v.face,v.suffix),()=>{if(c.isBusy()||c.demo.active)return;const m=yU(v.face,v.suffix);history.current.push(m);c.enqueueMoves([m])},{key:i,disabled:c.isBusy()||c.demo.active}))),e('div',{className:'mini-controls'},e('div',{},e('strong',{},yW[lang].orbitStick),e(dn,{controller:c,t:yW[lang]})),e('div',{},e('strong',{},yW[lang].turnWheel),e(on,{controller:c,t:yW[lang],layer:face}))),e('label',{className:'speed'},yW[lang].sensitivity,e('input',{type:'range',min:.3,max:2,step:.1,value:sensitivity,'aria-label':yW[lang].sensitivity,onChange:ev=>{c.sensitivity=+ev.target.value;setSensitivity(c.sensitivity)}}),e('span',{},sensitivity.toFixed(1)+'×')));
  const helpPanel=e('div',{className:'help-lines'},e('div',{className:'eyebrow'},'TOUCH / MOUSE'),e('h2',{},t.gestureTitle),t.gestures.map((s,i)=>e('p',{key:i},e('strong',{},String(i+1).padStart(2,'0')+' · '),s)),e('p',{className:'note'},t.safe));
  return e('main',{className:'lab',ref:root},e('header',{className:'topbar'},e('div',{className:'brand'},e('div',{className:'brand-mark','aria-hidden':true},'◇'),e('div',{},e('h1',{},'RUBIK / LAB'),e('small',{},'CINEMATIC · INTERACTIVE'))),e('div',{className:'top-actions'},e('select',{value:bg,'aria-label':yW[lang].background,onFocus:pause,onChange:ev=>setBg(ev.target.value)},CINEMA.map((v,i)=>e('option',{key:v,value:v},t.backgrounds[i]))),e('select',{value:lang,'aria-label':t.choose,onFocus:pause,onChange:ev=>setLang(ev.target.value)},['es','en','ru'].map(v=>e('option',{key:v,value:v},v.toUpperCase()))),button(full?'↙':'⛶',async()=>{try{if(document.fullscreenElement)await document.exitFullscreen();else if(root.current.requestFullscreen)await root.current.requestFullscreen()}catch{}},{title:full?t.exit:t.fullscreen,'aria-label':full?t.exit:t.fullscreen}))),e('div',{className:'workspace'},e('section',{className:'scene-column','aria-label':t.scene},e('div',{className:'scene-heading'},e('span',{},t.scene),e('span',{className:'live'},active?(finished?t.complete:c.paused?t.paused:t.running):t.ready)),e('div',{ref:stage,className:'stage','data-bg':bg,'aria-label':t.gestureTitle},e(CP,{controller:c,background:bg})),e('div',{className:'scene-footer'},e('span',{},t.hint)),e('div',{className:'scene-tools'},button('◎ '+t.center,center),button(t.rotate,()=>setMode('rotate'),{className:mode==='rotate'?'active':''}),button(t.move,()=>setMode('move'),{className:mode==='move'?'active':''}),e('input',{type:'range',min:.35,max:2.2,step:.01,value:zoom,title:t.size,'aria-label':t.size,onChange:ev=>{c.zoom=+ev.target.value;setZoom(c.zoom)}}),e('span',{className:'spacer'}),button(t.mix,()=>{history.current.length=0;c.scramble()}),button(t.reset,()=>{history.current.length=0;c.reset();center()}))),e('aside',{className:'panel'},e('nav',{className:'tabs','aria-label':t.controls},[['demo',t.demo],['controls',t.controls],['help',t.help]].map(([v,label])=>button(label,()=>chooseTab(v),{key:v,className:tab===v?'active':'','aria-pressed':tab===v}))),e('div',{className:'level-rail'},e('div',{className:'rail-label'},t.demo),e('div',{className:'levels'},t.levels.map((name,i)=>button(name,()=>selectLevel(i),{key:i,className:level===i?'active':'','aria-pressed':level===i,title:t.complexity[i]})))),e('div',{className:'panel-content'},e('section',{'data-section':'demo',className:'panel-section'},demoPanel),e('section',{'data-section':'controls',className:'panel-section'},controlsPanel),e('section',{'data-section':'help',className:'panel-section'},helpPanel)))));

diff --git a/README.md b/README.md
@@ -8,6 +8,53 @@
 
 ---
 
+## Antes de nada: ¿qué significan estas letras? (léelo primero, un minuto)
+
+Si ves algo como `R U R' U'` y no tienes ni idea de qué significa, tranquilo: es normal, nadie nace sabiéndolo. Vamos a explicarlo muy despacio, como si fuera la primera vez que ves un cubo de Rubik en tu vida.
+
+Coge el cubo con la mente (o uno físico, si tienes uno a mano) y déjalo quieto delante de ti, sin moverlo todavía. Tiene 6 caras. Cada cara tiene una letra, y esa letra es simplemente la inicial de **dónde está** esa cara en este momento:
+
+| Letra | Nombre completo | En plan sencillo: es la cara que... |
+|---|---|---|
+| **F** | *Front* (frente) | ...te está mirando a ti ahora mismo. |
+| **B** | *Back* (detrás) | ...está al otro lado, la que no ves. |
+| **U** | *Up* (arriba) | ...mira hacia el techo. |
+| **D** | *Down* (abajo) | ...toca la mesa. |
+| **L** | *Left* (izquierda) | ...está hacia tu mano izquierda. |
+| **R** | *Right* (derecha) | ...está hacia tu mano derecha. |
+
+Eso es todo. 6 caras, 6 letras. No hay ningún truco ni nada que memorizar: es solo un nombre para cada lado.
+
+Cuando una "receta" de movimientos (eso es un **algoritmo**: una lista ordenada de giros que, si la sigues bien, resuelve un problema concreto) te dice una letra sola, por ejemplo **R**, solo quiere decir una cosa, y nada más que esa:
+
+> Coge esa cara del cubo (en este caso, la de la derecha) y gírala **una vez**, 90 grados, como quien gira el pomo redondo de una puerta.
+
+Ahora, dos símbolos extra que verás constantemente pegados a las letras:
+
+- **Un apóstrofe detrás de la letra, como `R'`** (se dice "R prima", y significa "R al revés" o "R inversa"): es el mismo giro, pero **hacia el lado contrario**. Si con `R` giras hacia un sentido, con `R'` deshaces exactamente ese giro.
+- **Un 2 detrás de la letra, como `R2`**: gira esa misma cara **dos veces seguidas** (media vuelta completa, 180°). Da igual hacia qué lado la gires las dos veces: el resultado final es idéntico.
+
+Con solo esto ya puedes leer **cualquier** algoritmo de toda la app, sin excepción. Vamos a probarlo con el primero que te vas a encontrar, `F U' R U`. Leído muy despacio, paso a paso, en voz alta, dice:
+
+1. `F` → gira la cara de **delante**, una vez, en el sentido normal.
+2. `U'` → gira la cara de **arriba**, una vez, pero **al revés**.
+3. `R` → gira la cara de la **derecha**, una vez, en el sentido normal.
+4. `U` → gira otra vez la cara de **arriba**, una vez, en el sentido normal (deshaciendo el giro al revés de antes).
+
+Cuatro pasos. Ni más ni menos. Y la app hace exactamente esto delante de tus ojos, en 3D, mientras te lo escribe en pantalla en tiempo real para que jamás te pierdas en qué paso vas.
+
+Solo en los niveles más avanzados aparecen tres letras más: **M**, **E** y **S**. No son caras exteriores, son "rebanadas" que están justo en el centro del cubo, entre dos caras opuestas:
+
+| Letra | Nombre completo | Dónde está | Gira igual que la cara... |
+|---|---|---|---|
+| **M** | *Middle* (del medio) | la rebanada vertical entre L y R | **L** |
+| **E** | *Equatorial* (ecuador) | la rebanada horizontal entre U y D | **D** |
+| **S** | *Standing* (en pie) | la rebanada entre F y B | **F** |
+
+No hace falta que memorices nada de esta tabla ahora mismo: la propia app te recuerda estos significados en todo momento, y además te explica cada movimiento, uno por uno, mientras lo ves ocurrir en tiempo real. Esta chuleta solo es para que la primera vez que veas una letra suelta, nunca te quedes en blanco.
+
+---
+
 ## ¿Qué es esto?
 
 Es un laboratorio interactivo del cubo de Rubik que corre entero en el navegador (móvil u ordenador), con render 3D realista, física de giros reales y un sistema de aprendizaje guiado: eliges una técnica, le das a reproducir, y el cubo se resuelve ese caso paso a paso mientras un texto va apareciendo **en tiempo real, letra a letra**, explicándote qué está pasando y por qué funciona.
@@ -35,7 +82,7 @@ Resolver el cubo no es un truco de memoria: es **pensamiento algorítmico aplica
 El cubo de Rubik no es solo un juguete — es un objeto matemático real que se estudia en teoría de grupos:
 
 - **Permutaciones**: cada giro es una permutación de 20 piezas móviles. Aprender un algoritmo es, sin saberlo, aprender a componer permutaciones — la misma matemática que hay detrás de la criptografía y de cómo se barajan las cartas.
-- **Combinatoria**: el cubo tiene **43 252 003 274 489 856 000** combinaciones posibles (más de 43 trillones). Y aun así, **cualquier** combinación se resuelve en 20 movimientos o menos (el famoso resultado "Dios's Number"). Entender por qué es posible resolver algo tan enorme con tan pocos pasos es una lección de combinatoria y optimización por sí sola.
+- **Combinatoria**: el cubo tiene **43 252 003 274 489 856 000** combinaciones posibles (más de 43 trillones — un número con 20 cifras, imposible de imaginar). Y aun así, está demostrado que **cualquier** combinación, por mezclada que esté, se puede resolver en 20 movimientos o menos (a este resultado se le llama "el Número de Dios", porque parecía demasiado bueno para ser verdad). Entender por qué algo tan enorme se resuelve con tan pocos pasos es, en sí mismo, una lección de combinatoria y optimización.
 - **Invariantes**: hay propiedades del cubo que un giro normal nunca puede romper (como la paridad de las esquinas). Reconocer qué cambia y qué se mantiene fijo tras una operación es exactamente el mismo razonamiento que se usa para demostrar teoremas o depurar un programa.
 - **Algoritmos y notación**: cada técnica (`R U R' U'`, `R U R' U R U2 R'`...) es literalmente un **programa corto**: una secuencia de instrucciones con una entrada (el estado mezclado), una condición y una salida (el estado resuelto). Si alguna vez programas, esta notación te va a sonar sospechosamente familiar.
 - **Simetría y geometría**: el cubo vive en el grupo de simetrías de un objeto 3D. Jugar con él a mano construye la intuición geométrica que luego hace más fácil entender matrices de rotación, trigonometría o incluso gráficos por computadora (de hecho, así es como está hecho este cubo: con las mismas matemáticas 3D que usan los videojuegos).
@@ -46,10 +93,10 @@ En resumen: cada vez que resuelves una capa, estás usando (sin darte cuenta) la
 
 La app sigue el **método por capas para principiantes** (el mismo con el que empieza casi cualquier speedcuber), dividido en 4 niveles progresivos:
 
-1. **Básico** — giros fundamentales, la cruz blanca y las esquinas blancas.
-2. **Medio** — segunda capa y la cruz amarilla (orientación de piezas).
-3. **Avanzado** — permutaciones de la última capa (PLL): intercambiar piezas para que cada color coincida con su cara.
-4. **Profesional** — orientaciones (OLL) y combinaciones encadenadas, el terreno de quien ya quiere ser rápido de verdad.
+1. **Básico** — giros fundamentales y la "cruz blanca": colocar cuatro piezas blancas formando una cruz en la cara de arriba.
+2. **Medio** — completar la segunda capa y formar una cruz amarilla en la cara de abajo del todo (la última).
+3. **Avanzado** — **PLL** (de *Permutate Last Layer*, "permutar la última capa"): las piezas de arriba ya están orientadas, pero no en el orden correcto — aquí aprendes a intercambiarlas de sitio hasta que cada color coincide con el de su cara.
+4. **Profesional** — **OLL** (de *Orient Last Layer*, "orientar la última capa"): conseguir que todas las pegatinas de arriba miren hacia arriba (sin importar aún el orden), más combinaciones encadenadas de varias técnicas — el terreno de quien ya quiere ser rápido de verdad.
 
 Para cada técnica, la app:
 
